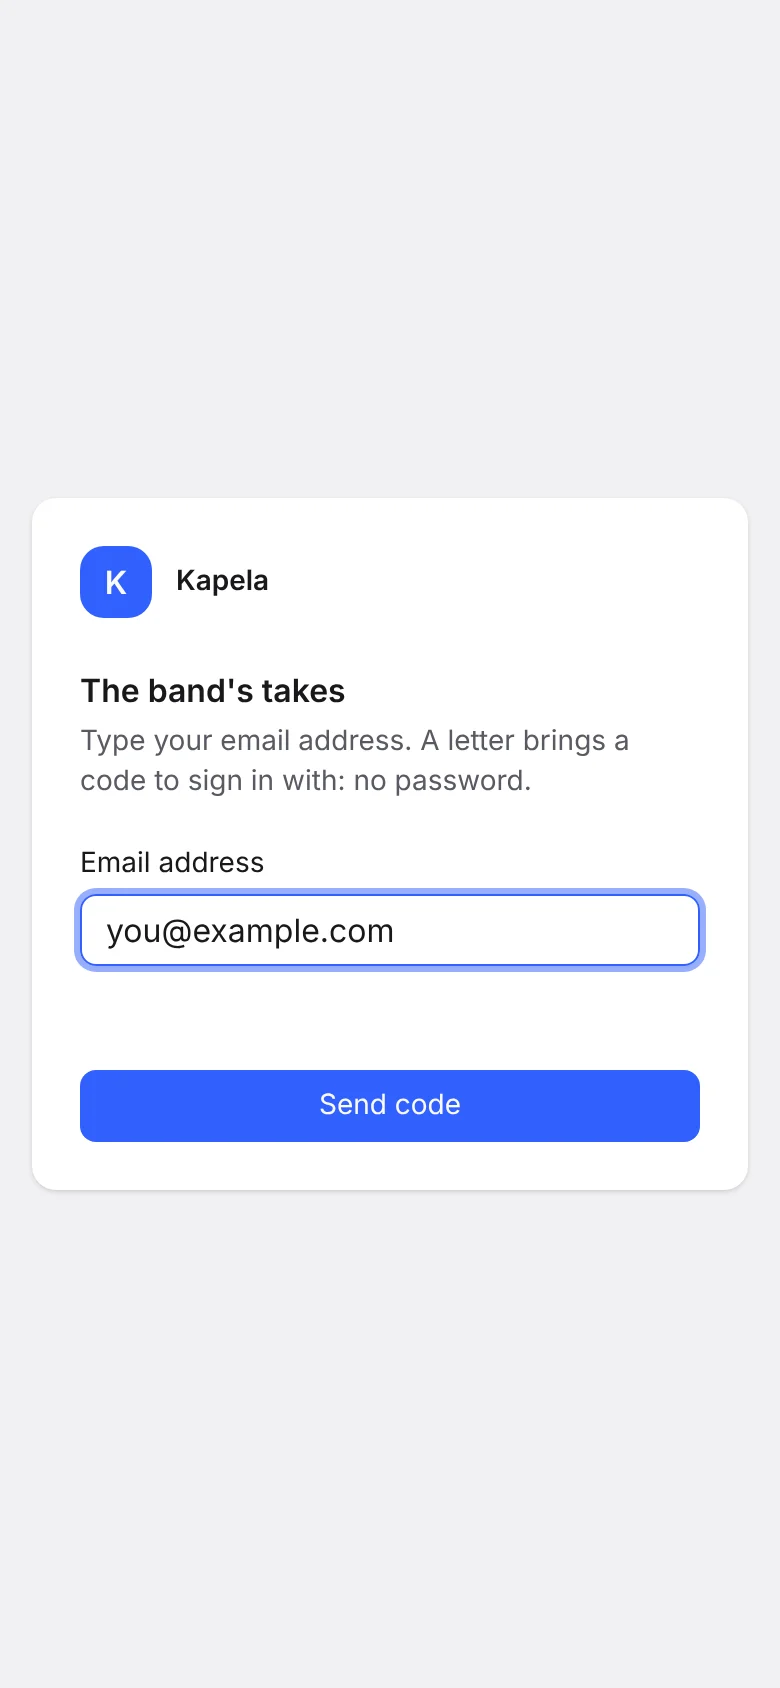
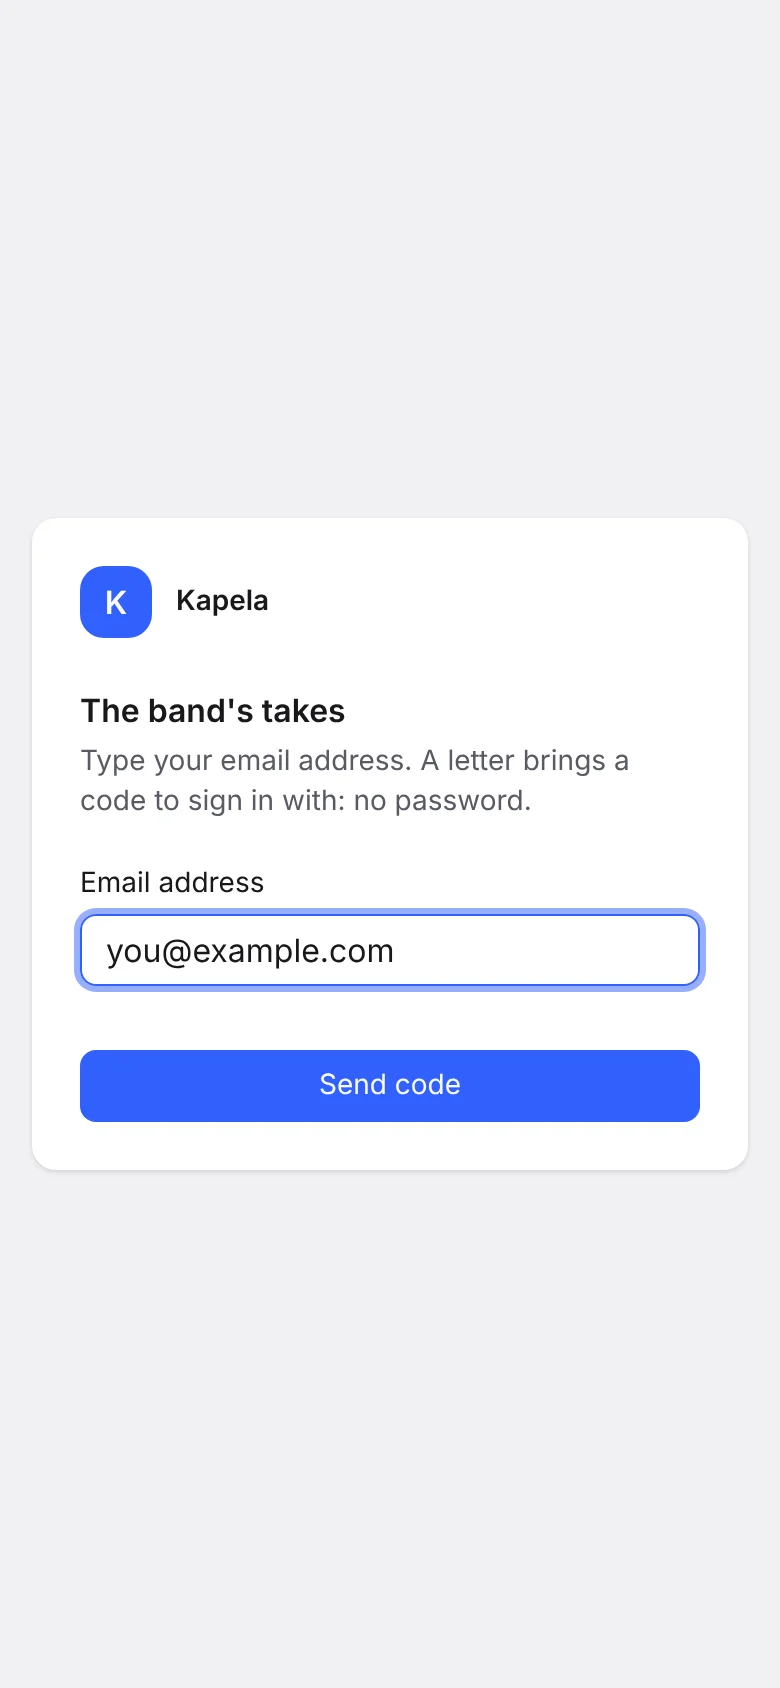
Sign-in: one-line error texts and a one-line room
The texts under the address and code fields now fit one line in the card,
so the room under each is one line and the gap before Send code shrinks.
The sign-in pictures are retaken.

Changed region(s): [[0.0923, 0.3081, 0.9231, 0.5853], [0.0923, 0.6161, 0.8923, 0.6777]]

diff --git a/service/src/signin/SignIn.tsx b/service/src/signin/SignIn.tsx
@@ -11,8 +11,8 @@ import { ErrorLine } from "../shell/parts"
 import { Frame } from "./Frame"
 
 const SENT = "If this address is in the band, a code is on its way"
-const BAD_CODE = "This code does not work. Check it, or press Send code for a new one."
-const TOO_MANY = "Too many tries. Wait a minute, then press Send code again."
+const BAD_CODE = "Wrong code. Check it, or send a new one."
+const TOO_MANY = "Too many tries. Wait a minute."
 
 /**
  * Signing in: the address and **Send code**, then the code from the letter
@@ -87,8 +87,8 @@ export function SignIn() {
               if (stage === "confirm") setStage("address")
             }}
           />
-          {/* Two lines' room: what is said here takes two in the card, and Send code stays where it is. */}
-          <ErrorLine error={stage !== "confirm" && said?.by === "send" ? said.text : undefined} className="min-h-10" />
+          {/* One line's room: what is said here fits one, and Send code stays where it is. */}
+          <ErrorLine error={stage !== "confirm" && said?.by === "send" ? said.text : undefined} />
         </Field>
         <Button type="submit" variant={stage === "address" || stage === "confirm" ? "default" : "outline"} disabled={busy}>
           Send code
@@ -120,8 +120,7 @@ export function SignIn() {
                 ))}
               </InputOTPGroup>
             </InputOTP>
-            {/* Two lines' room, as under the address. */}
-            <ErrorLine error={said?.by === "sign" ? said.text : undefined} className="min-h-10" />
+            <ErrorLine error={said?.by === "sign" ? said.text : undefined} />
           </Field>
           <Button type="submit" disabled={busy}>
             Sign in

diff --git a/service/e2e/signin.spec.ts b/service/e2e/signin.spec.ts
@@ -96,7 +96,7 @@ test("a wrong code is said under the boxes, and Sign in does not move", async ({
   await page.getByLabel("Code").fill("000000")
   await button.click()
   const alert = page.getByRole("alert")
-  await expect(alert).toHaveText("This code does not work. Check it, or press Send code for a new one.")
+  await expect(alert).toHaveText("Wrong code. Check it, or send a new one.")
   const boxes = (await page.locator("[data-slot=input-otp-slot]").first().boundingBox())!
   const said = (await alert.boundingBox())!
   expect(said.y).toBeGreaterThanOrEqual(boxes.y + boxes.height)

diff --git a/service/test/signin.test.ts b/service/test/signin.test.ts
@@ -18,7 +18,7 @@ import {
 } from "./helpers"
 
 const CONFIRM_FIRST = "First confirm your address: look for a letter from Cloudflare, then press Send code again"
-const TOO_MANY_CODES = "Too many codes for this address. Wait an hour, then press Send code again."
+const TOO_MANY_CODES = "Too many codes. Wait an hour."
 const MINUTE = 60 * 1000
 const DAY = 24 * 60 * MINUTE
 

diff --git a/service/worker/signin/code-asks.ts b/service/worker/signin/code-asks.ts
@@ -7,7 +7,7 @@ import { now } from "../shared/time"
 export const CODES_AN_HOUR = 5
 const HOUR = 60 * 60 * 1000
 
-export const TOO_MANY_CODES = "Too many codes for this address. Wait an hour, then press Send code again."
+export const TOO_MANY_CODES = "Too many codes. Wait an hour."
 
 /**
  * Counts a code asked for `email`, and answers whether it may be sent.
